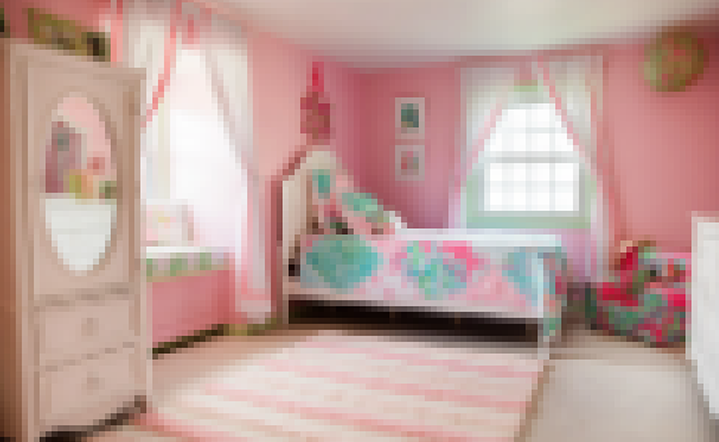
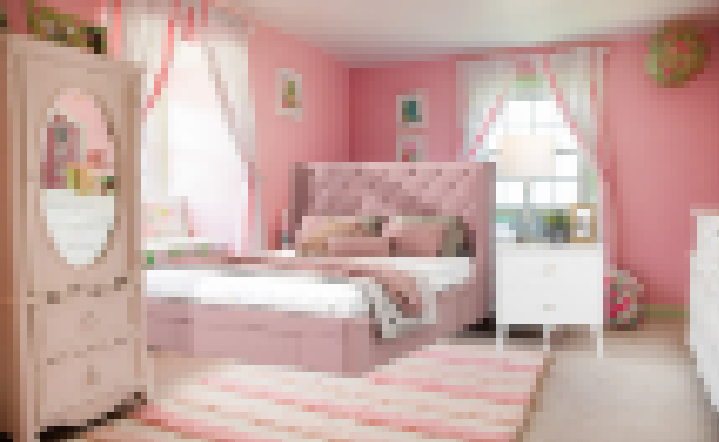
pages 5-10

diff --git a/5-gameover.html b/5-gameover.html
@@ -17,20 +17,23 @@
     <a href="index.html"> <button>Log Out</button> </a>
 
     <div id="white-box">
-        <p id="pink-box"> That was so good! The avocado toast complimented the mimosa well. Time to head home... Oh! I just got an invitation to my friends beach birthday party, Should I go?
-            <br>1)RSVP, You'll be there!
-            <br>2)That seems socially exhausting, let's just tell her I'm out of town.
+            <div class="get-a-life">
+            <h1> Get A Life</h1> </div>        
+            
+            <div class="hearts_gameover"> <a href="welcom.html"> <img src="img/threehearts.png"> </a> </div>
+
+            <a href="welcom.html"><div id="play_again">
+            <p> (play again)</p></div></a>
+
+            <p id="pink-box-bottom"> It was someone from the bank! They said that an unknown transaction of 3,000$ took place under my name. "to prevent the finalization of this transaction please provide your personal banking information at the following link..."
+                <br> GAME OVER DUE TO SCAMMER
         </p>
-        <img src="img/px-cafeinside.png" alt="bedroom pixled"> 
+
     </div>
 
-    <div class="flex-container">
 
-        <a href="7.html"> <button class="b1"> Opt. 1 </button> </a>
 
-        <div class="ht"> <a href="welcom.html"> <img src="img/threehearts.png"> </a> </div>
 
-        <a href="8-gameover.html"> <button class="b2">Opt. 2</button> </a> 
     </div>
 </body>
 </html>

diff --git a/6.html b/6.html
@@ -17,20 +17,23 @@
     <a href="index.html"> <button>Log Out</button> </a>
 
     <div id="white-box">
-        <p id="pink-box"> That was so good! The avocado toast complimented the mimosa well. Time to head home... Oh! I just got an invitation to my friends beach birthday party, Should I go?
-            <br>1)RSVP, You'll be there!
-            <br>2)That seems socially exhausting, let's just tell her I'm out of town.
+        <p id="pink-box"> I don't trust anonymous callers... Oooh, I just got a text from my friend, "Hi, I'm planning on going out with my closest friends tonight and thought of you! It's either a fancy dinner or the bar. Would love for you to come! let me know if you can make it."
+            <br>1)I don't like her friends, let's not go
+            <br>2)Yes a girls night out sounds fun!
         </p>
-        <img src="img/px-cafeinside.png" alt="bedroom pixled"> 
+        
+        <img> <img src="img/px-bedroom.png" alt="bedroom pixled"> </img>
+
     </div>
 
     <div class="flex-container">
 
-        <a href="7.html"> <button class="b1"> Opt. 1 </button> </a>
+        <a href="9.html"> <button class="b1"> Opt. 1 </button> </a>
 
         <div class="ht"> <a href="welcom.html"> <img src="img/threehearts.png"> </a> </div>
 
-        <a href="8-gameover.html"> <button class="b2">Opt. 2</button> </a> 
+        <a href="10.html"> <button class="b2">Opt. 2</button> </a> 
     </div>
+
 </body>
 </html>

diff --git a/8-gameover.html b/8-gameover.html
@@ -17,20 +17,23 @@
     <a href="index.html"> <button>Log Out</button> </a>
 
     <div id="white-box">
-        <p id="pink-box"> That was so good! The avocado toast complimented the mimosa well. Time to head home... Oh! I just got an invitation to my friends beach birthday party, Should I go?
-            <br>1)RSVP, You'll be there!
-            <br>2)That seems socially exhausting, let's just tell her I'm out of town.
+            <div class="get-a-life">
+            <h1> Get A Life</h1> </div>        
+            
+            <div class="hearts_gameover"> <a href="welcom.html"> <img src="img/threehearts.png"> </a> </div>
+
+            <a href="welcom.html"><div id="play_again">
+            <p> (play again)</p></div></a>
+
+            <p id="pink-box-bottom"> Uh-oh, after telling her I'm out of town she calls me out for lying. I think she has my location.
+                <br> GAME OVER DUE TO FRIENDSHIP
         </p>
-        <img src="img/px-cafeinside.png" alt="bedroom pixled"> 
+
     </div>
 
-    <div class="flex-container">
 
-        <a href="7.html"> <button class="b1"> Opt. 1 </button> </a>
 
-        <div class="ht"> <a href="welcom.html"> <img src="img/threehearts.png"> </a> </div>
 
-        <a href="8-gameover.html"> <button class="b2">Opt. 2</button> </a> 
     </div>
 </body>
 </html>

diff --git a/7.html b/7.html
@@ -17,20 +17,20 @@
     <a href="index.html"> <button>Log Out</button> </a>
 
     <div id="white-box">
-        <p id="pink-box"> That was so good! The avocado toast complimented the mimosa well. Time to head home... Oh! I just got an invitation to my friends beach birthday party, Should I go?
-            <br>1)RSVP, You'll be there!
-            <br>2)That seems socially exhausting, let's just tell her I'm out of town.
+        <p id="pink-box"> The party is in 10 minutes but I don't have a bathing suit and home is 20 minutes away!
+            <br>1)Go home and arrive fashionably late
+            <br>2)Head straight to the beach, I don't want to be late
         </p>
-        <img src="img/px-cafeinside.png" alt="bedroom pixled"> 
+        <img src="img/px-car.png" alt="bedroom pixled"> 
     </div>
 
     <div class="flex-container">
 
-        <a href="7.html"> <button class="b1"> Opt. 1 </button> </a>
+        <a href="1.html"> <button class="b1"> Opt. 1 </button> </a>
 
         <div class="ht"> <a href="welcom.html"> <img src="img/threehearts.png"> </a> </div>
 
-        <a href="8-gameover.html"> <button class="b2">Opt. 2</button> </a> 
+        <a href="2.html"> <button class="b2">Opt. 2</button> </a> 
     </div>
 </body>
 </html>

diff --git a/10.html b/10.html
@@ -17,20 +17,20 @@
     <a href="index.html"> <button>Log Out</button> </a>
 
     <div id="white-box">
-        <p id="pink-box"> That was so good! The avocado toast complimented the mimosa well. Time to head home... Oh! I just got an invitation to my friends beach birthday party, Should I go?
-            <br>1)RSVP, You'll be there!
-            <br>2)That seems socially exhausting, let's just tell her I'm out of town.
+        <p id="pink-box"> I told her I'll be there. Time to get ready! She wants my opinion on where we go out tonight. What should I tell her?
+            <br>1)bar
+            <br>2)dinner
         </p>
-        <img src="img/px-cafeinside.png" alt="bedroom pixled"> 
+        <img src="img/px-bathroom.png" alt="bedroom pixled"> 
     </div>
 
     <div class="flex-container">
 
-        <a href="7.html"> <button class="b1"> Opt. 1 </button> </a>
+        <a href="8-gameover.html"> <button class="b1"> Opt. 1 </button> </a>
 
         <div class="ht"> <a href="welcom.html"> <img src="img/threehearts.png"> </a> </div>
 
-        <a href="8-gameover.html"> <button class="b2">Opt. 2</button> </a> 
+        <a href="2.html"> <button class="b2">Opt. 2</button> </a> 
     </div>
 </body>
 </html>

diff --git a/9.html b/9.html
@@ -17,20 +17,20 @@
     <a href="index.html"> <button>Log Out</button> </a>
 
     <div id="white-box">
-        <p id="pink-box"> That was so good! The avocado toast complimented the mimosa well. Time to head home... Oh! I just got an invitation to my friends beach birthday party, Should I go?
-            <br>1)RSVP, You'll be there!
-            <br>2)That seems socially exhausting, let's just tell her I'm out of town.
+        <p id="pink-box"> Ya, I'm just not feeling it. What should my excuse be?
+            <br>1)You're visiting family
+            <br>2)I'm sick
         </p>
-        <img src="img/px-cafeinside.png" alt="bedroom pixled"> 
+        <img src="img/px-couch.png" alt="bedroom pixled"> 
     </div>
 
     <div class="flex-container">
 
-        <a href="7.html"> <button class="b1"> Opt. 1 </button> </a>
+        <a href="8-gameover.html"> <button class="b1"> Opt. 1 </button> </a>
 
         <div class="ht"> <a href="welcom.html"> <img src="img/threehearts.png"> </a> </div>
 
-        <a href="8-gameover.html"> <button class="b2">Opt. 2</button> </a> 
+        <a href="2.html"> <button class="b2">Opt. 2</button> </a> 
     </div>
 </body>
 </html>

diff --git a/2.html b/2.html
@@ -21,13 +21,15 @@
             <br>1)Answer it
             <br>2)Ignore it and keep scrolling
         </p>
-        <img src="img/px-couch.png" alt="bedroom pixled"> 
+        <img src="img/px-bedroom.png" alt="bedroom pixled"> 
     </div>
 
     <div class="flex-container">
-        <b1><a href="1.html"> <button class="b1"> Opt. 1 </button> </a></b1>
+        <b1><a href="5-gameover.html"> <button class="b1"> Opt. 1 </button> </a></b1>
+
         <div class="ht"> <a href="welcom.html"> <img src="img/threehearts.png"> </a> </div> 
-        <b2><a href="index.html"> <button class="b2">Opt. 2</button> </a> </b2>
+
+        <b2><a href="6.html"> <button class="b2">Opt. 2</button> </a> </b2>
     </div>
 </body>
 </html>
